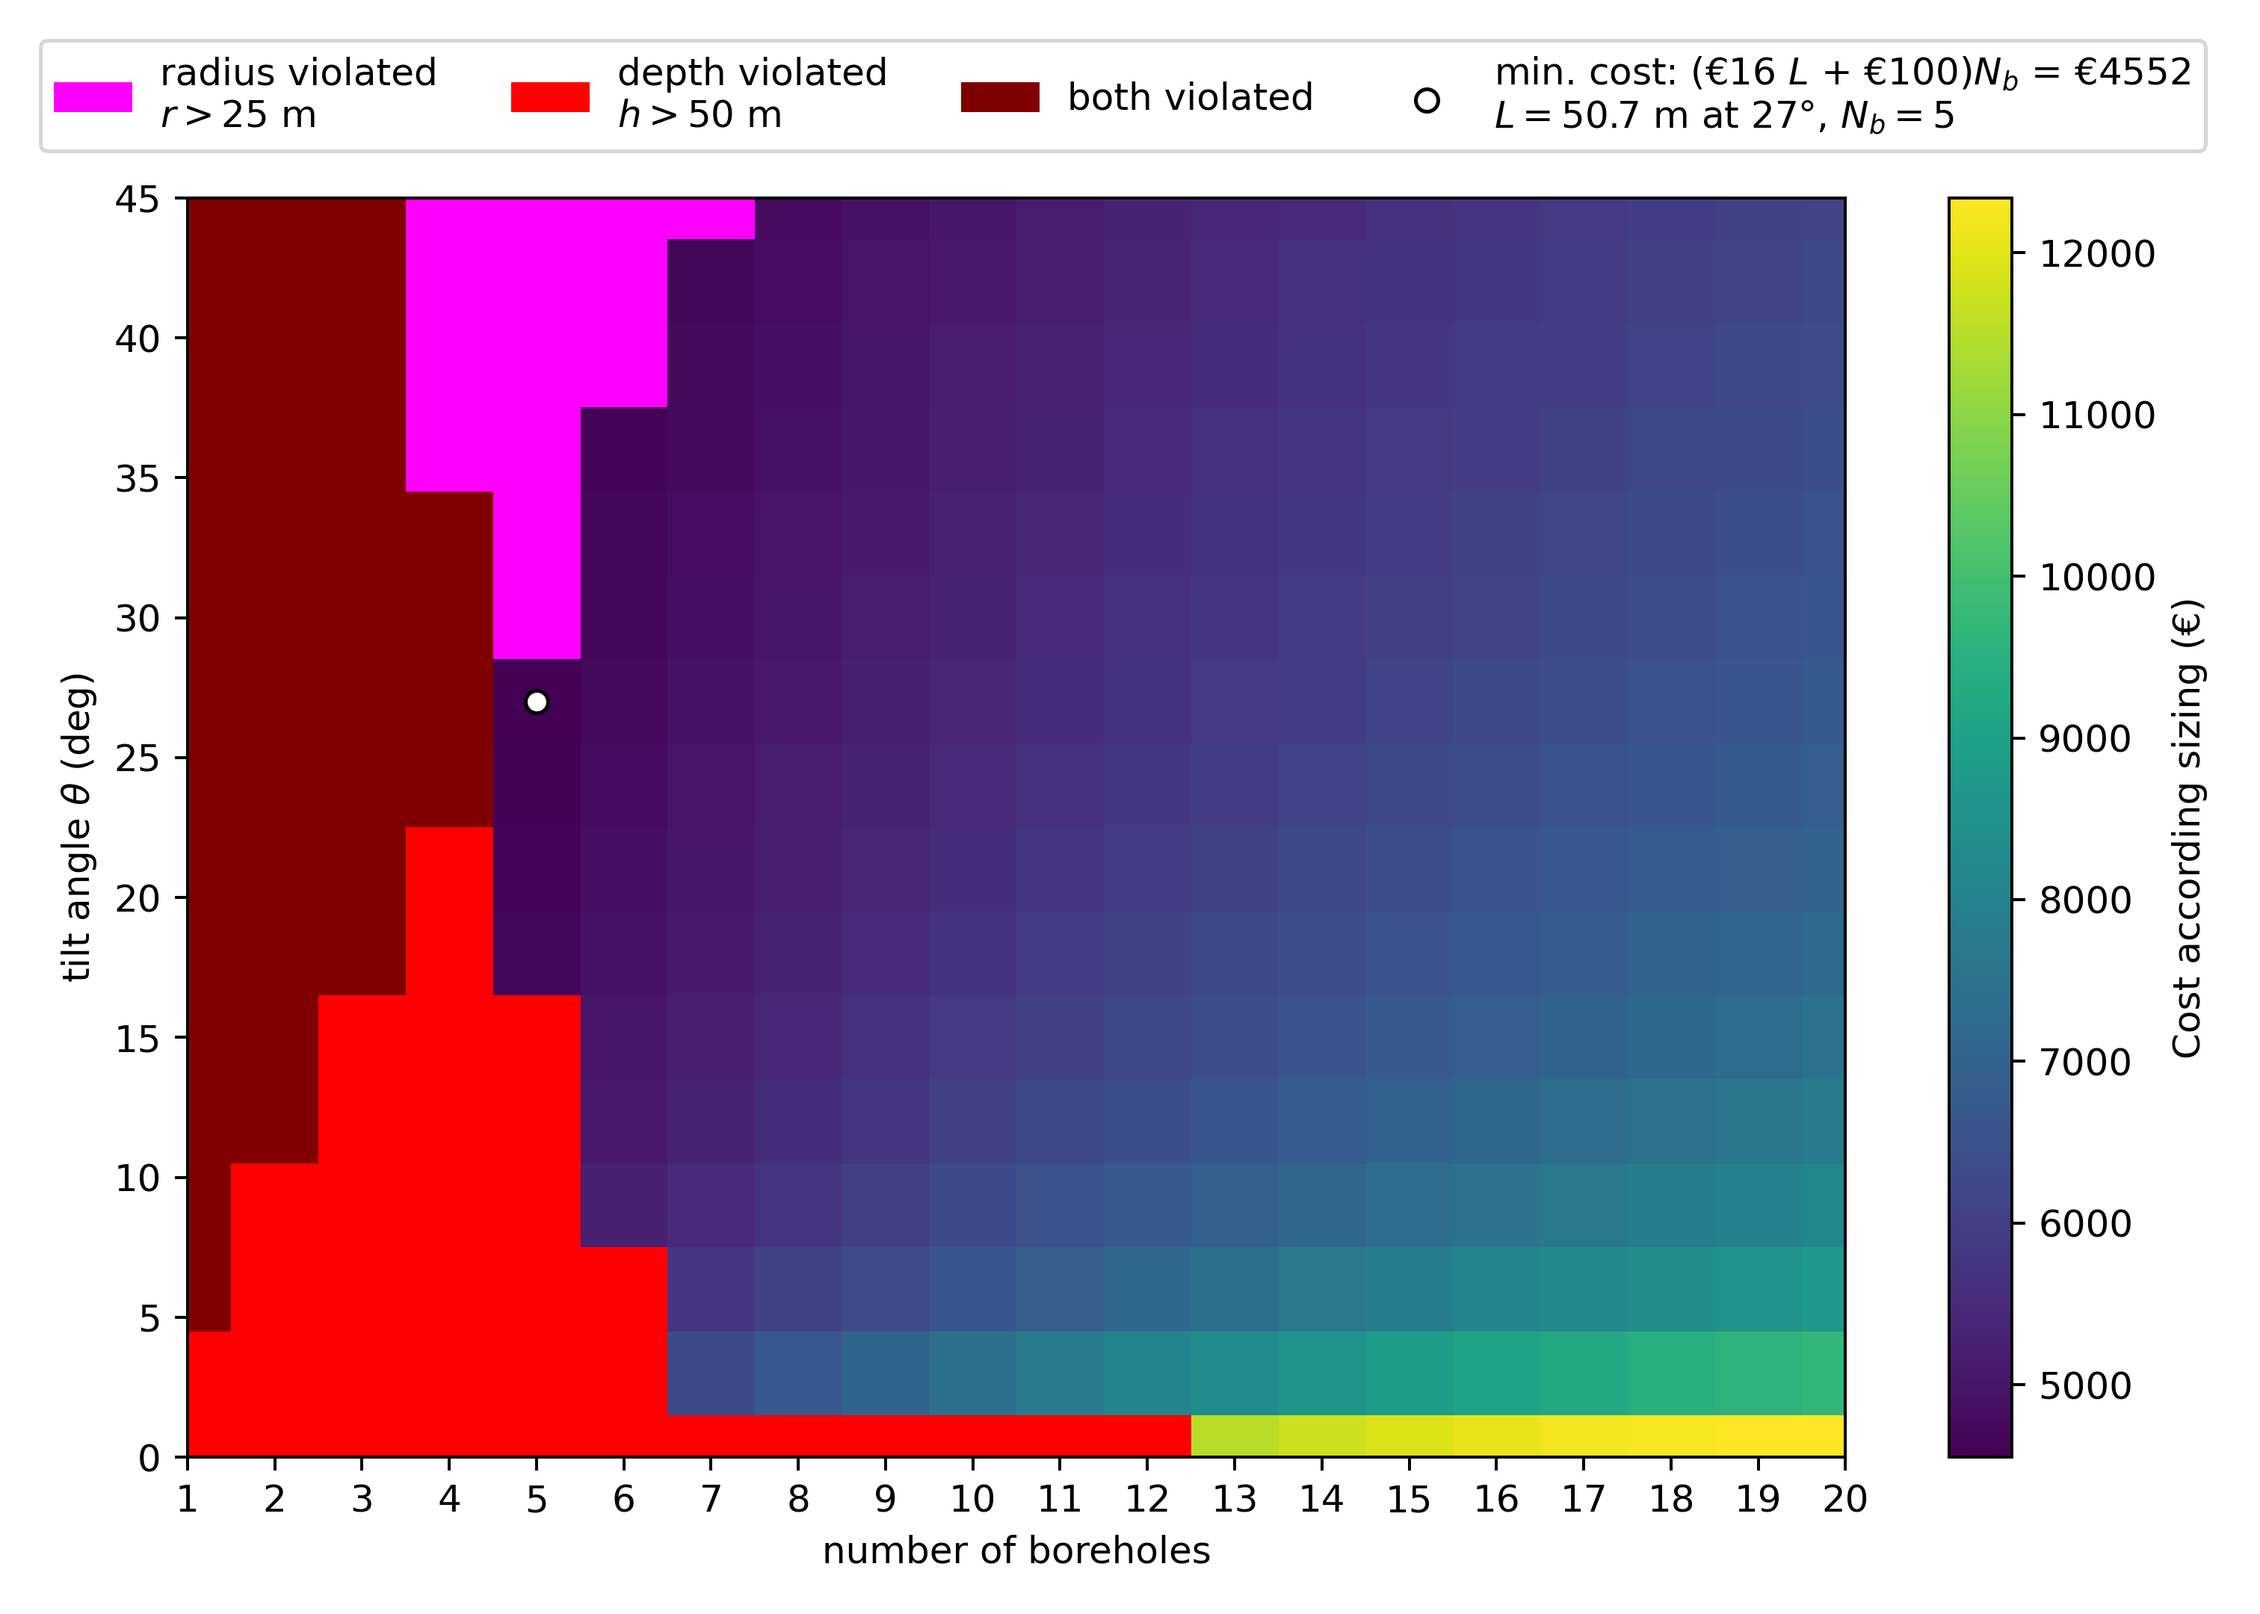
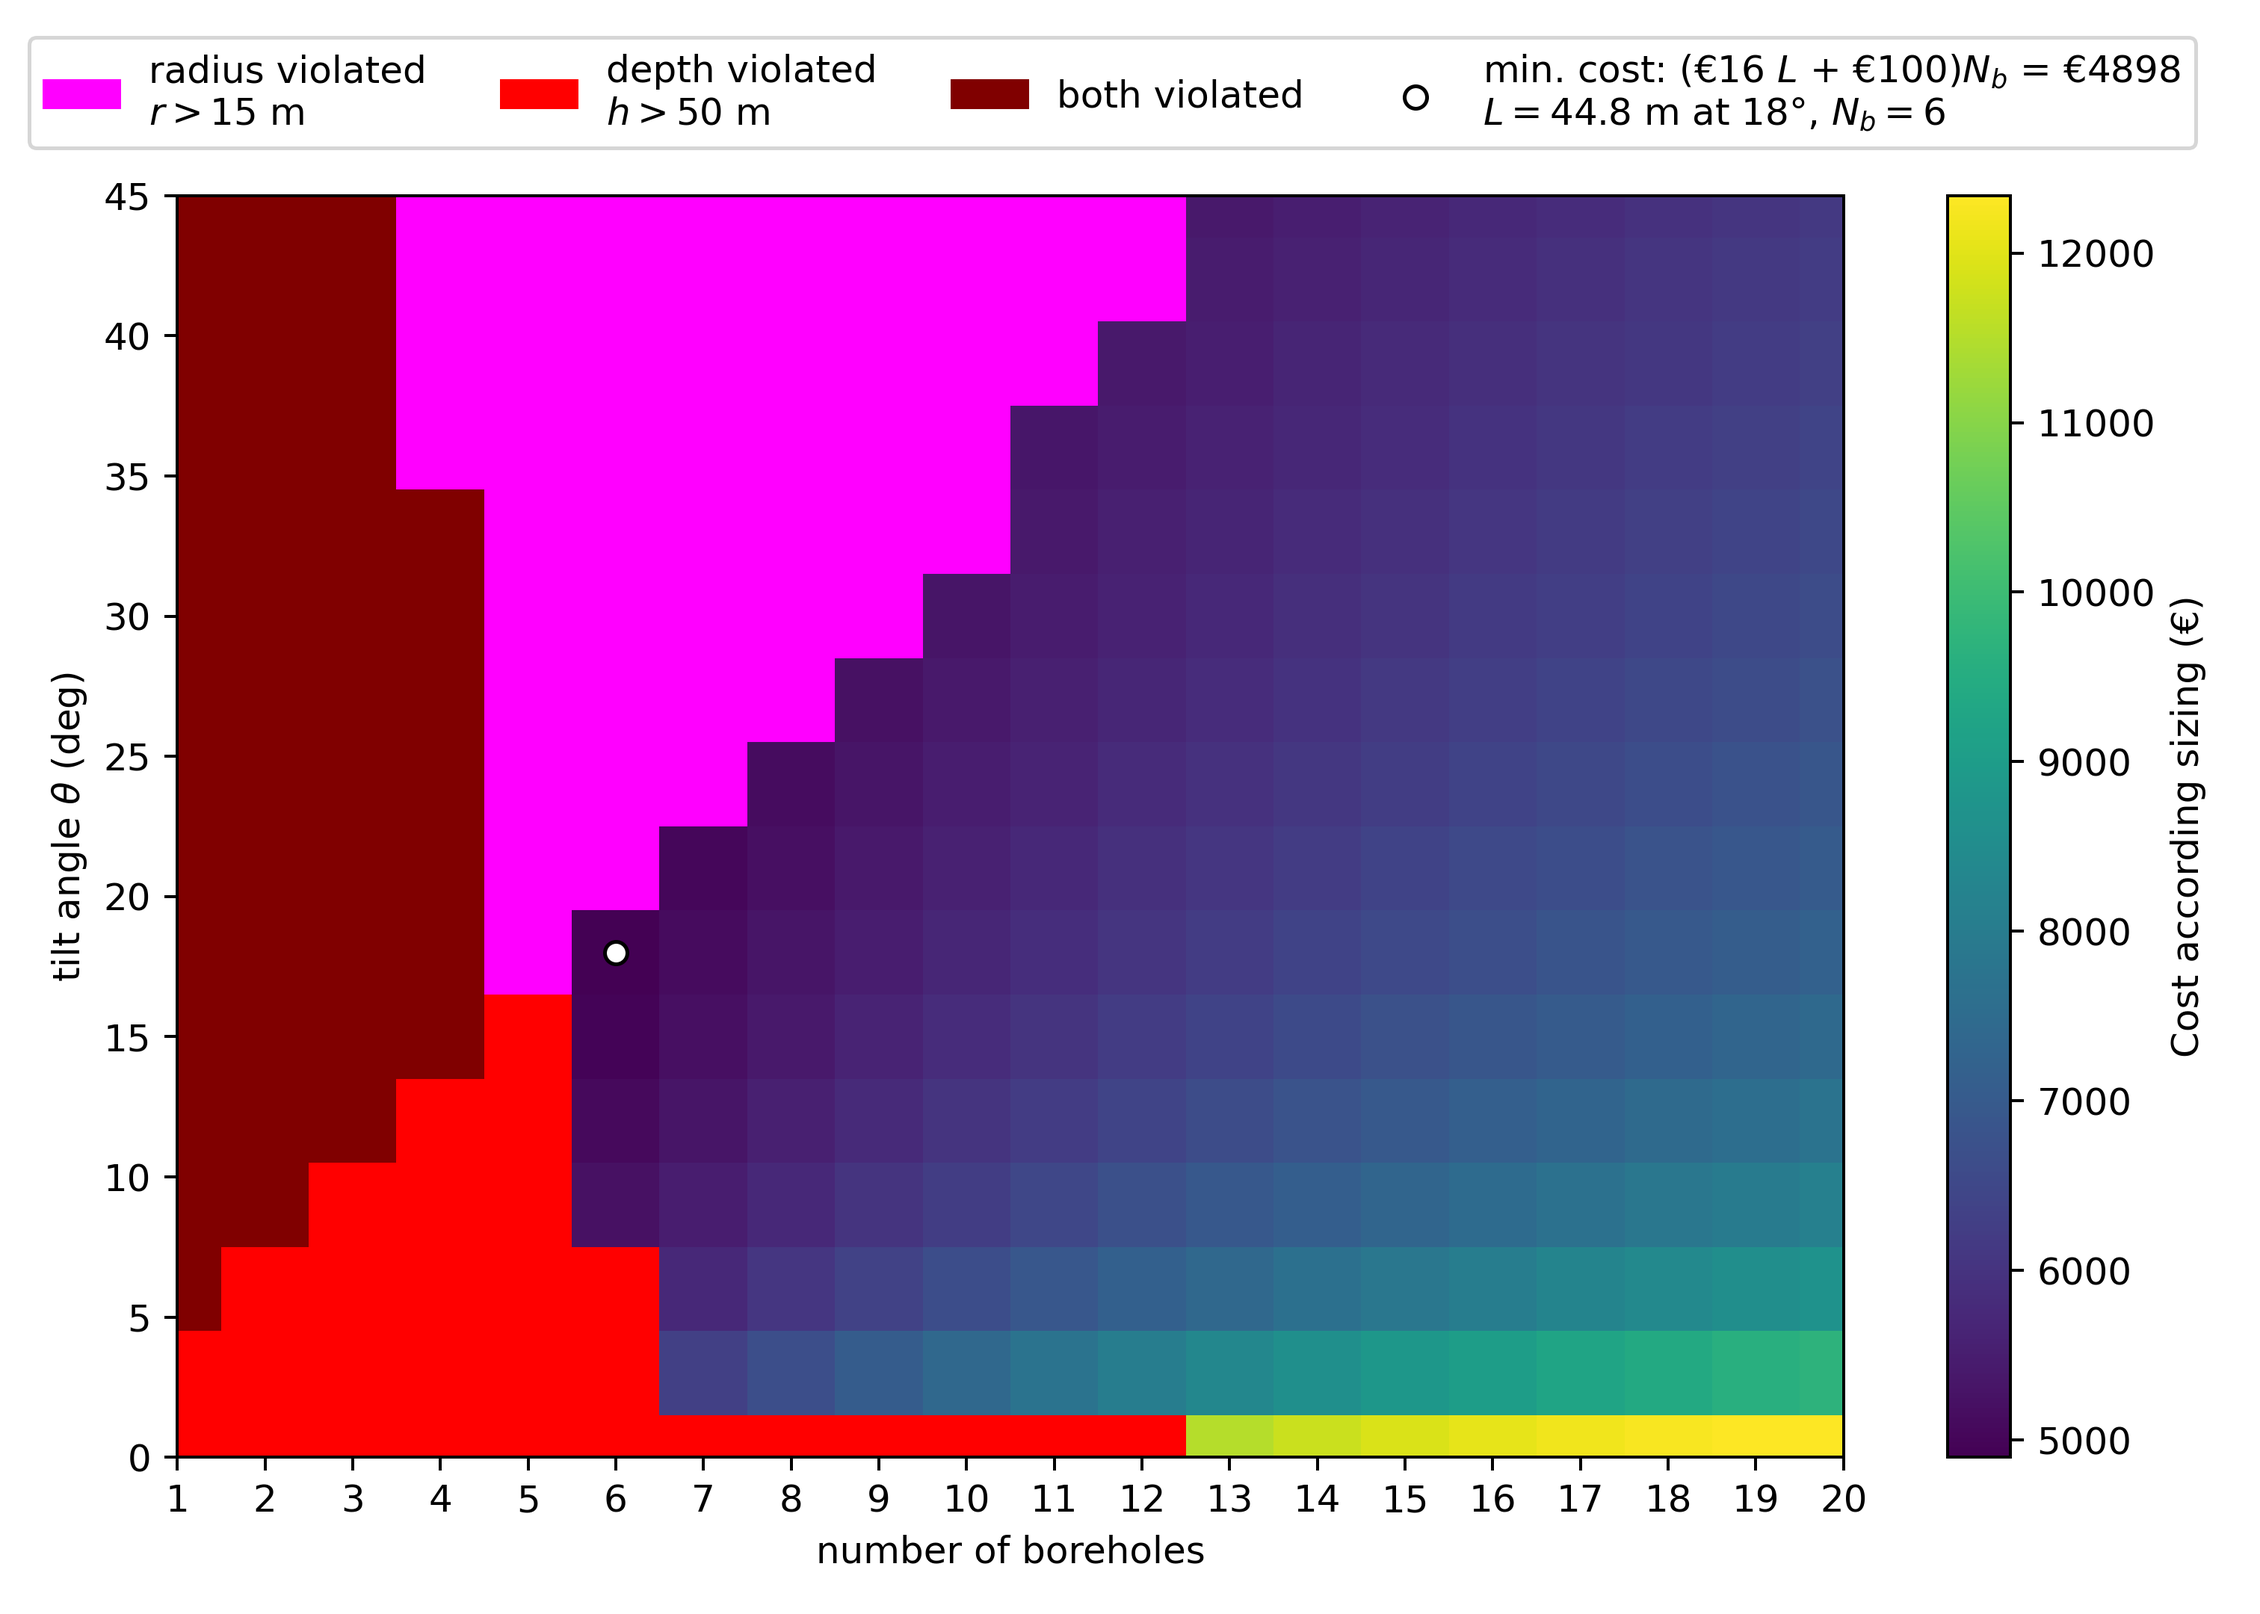
more vis

diff --git a/bhe_sizing_vis.py b/bhe_sizing_vis.py
@@ -6,10 +6,10 @@ import matplotlib.patches as mpatches
 
 
 # R_max = float('inf')
-R_max = 25  # max property radius in m
+R_max = 50  # max property radius in m
 H_max = 50  # max depth in m
 
-results_name = 'results-Eikstraat5.pkl'
+results_name = 'results-Jubileumplein1.pkl'
 results_root = 'results/'
 results_fp = results_root + results_name
 
